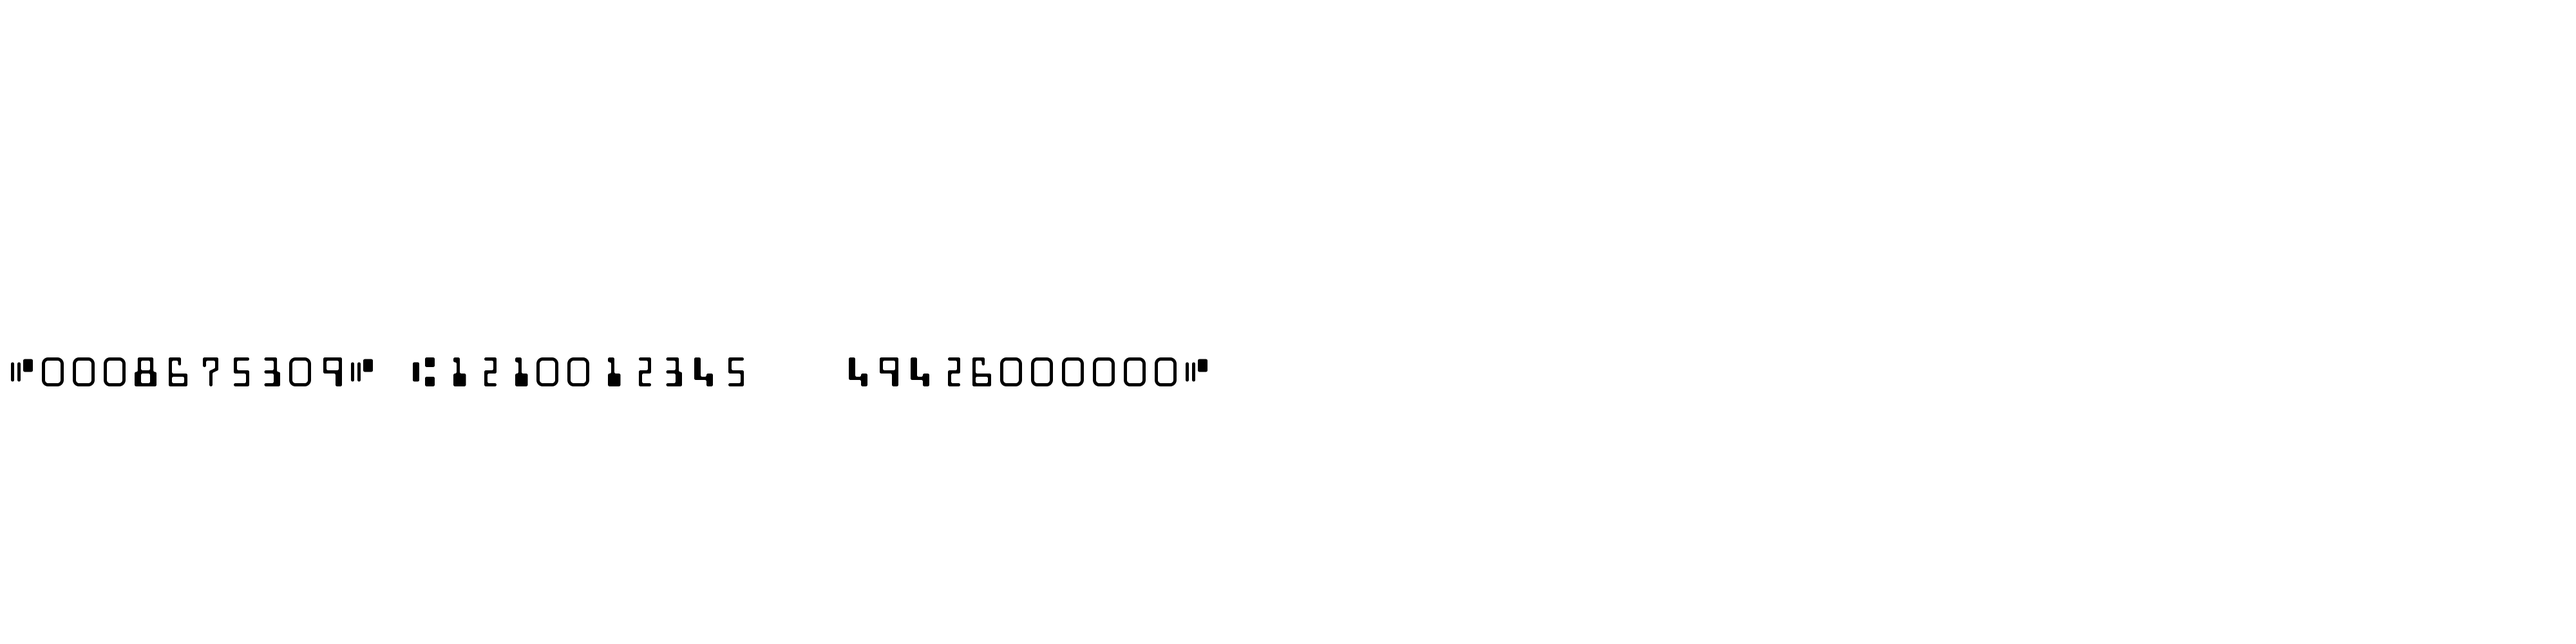
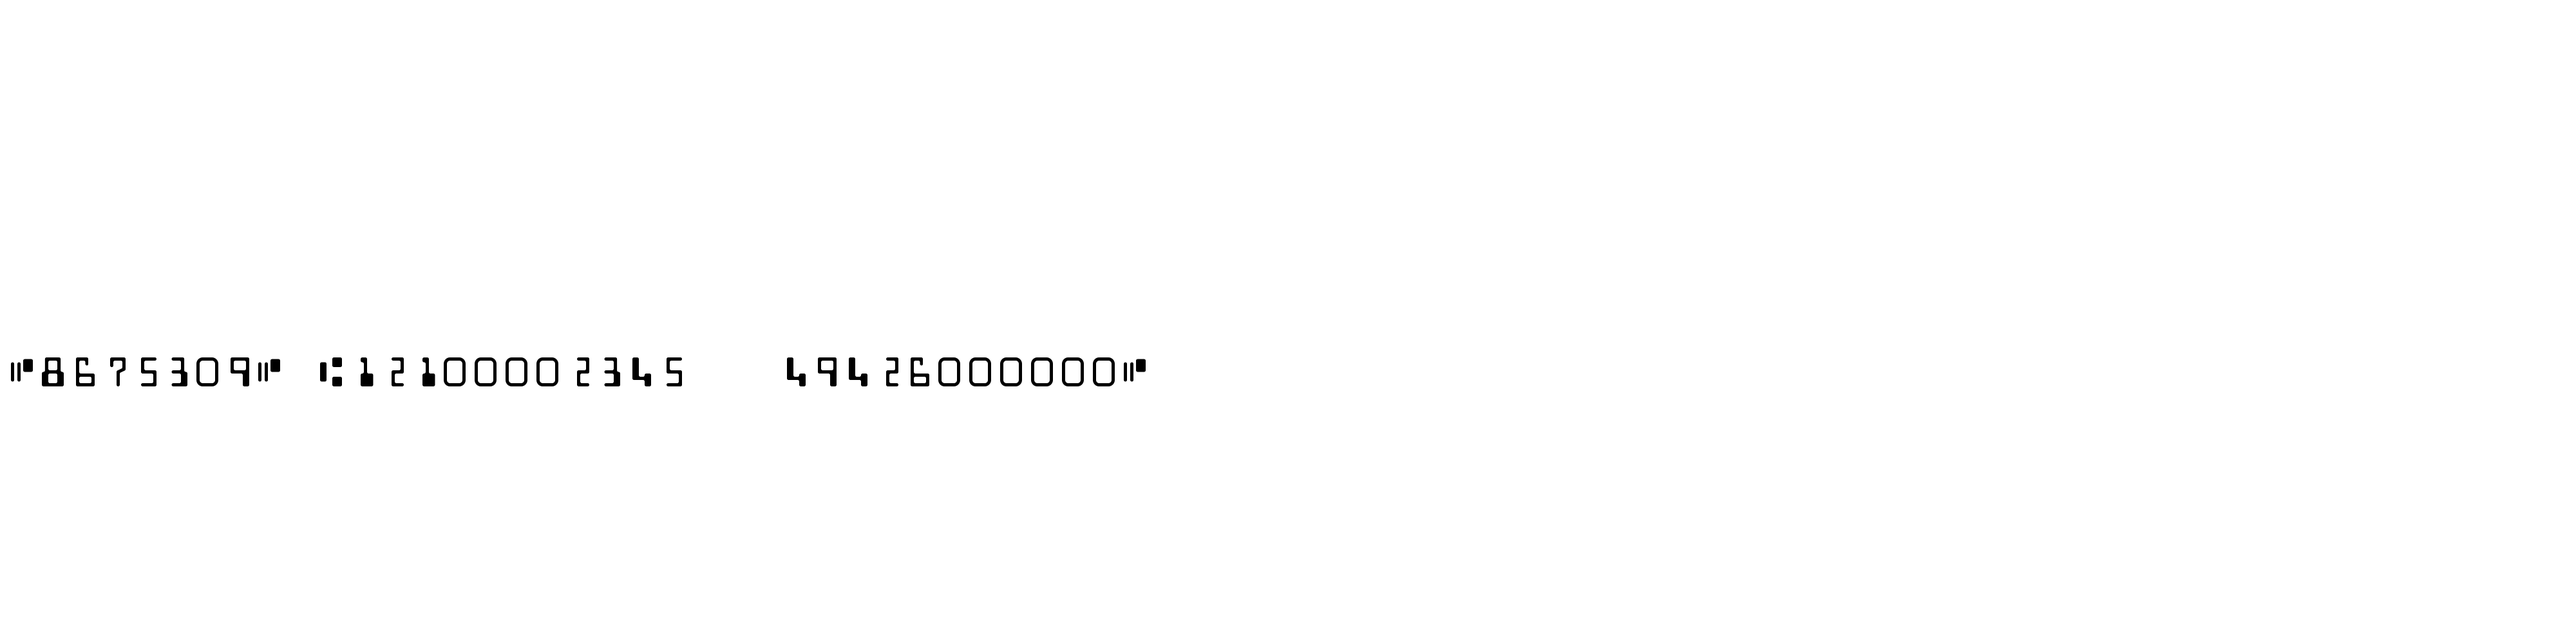
save

Changed region(s): [[0.0, 0.558, 0.4062, 0.62], [0.4375, 0.558, 0.4688, 0.62]]

diff --git a/dev.js b/dev.js
@@ -18,11 +18,10 @@ const main = (checkNumber, routingNumber, accountNumber) => {
     const canvas = createCanvas(4000, 1000);
     const ctx = canvas.getContext('2d');
 
-    // Use the E13B font
     ctx.font = '48pt "MICR E13B"';
-    ctx.fillText('C0008675309C A1210012345   49426000000C', 10, 600, 4000);
 
-    // Create the png file
+    ctx.fillText(`C${checkNumber}C A${routingNumber}   ${accountNumber}C`, 10, 600, 4000);
+
     const buffer = canvas.toBuffer('image/png');
 
     fs.writeFileSync('./results.png', buffer);
@@ -31,4 +30,4 @@ const main = (checkNumber, routingNumber, accountNumber) => {
 
 };
 
-main('185940854', '454545', '45065');
+main('8675309', '12100002345', '49426000000');
